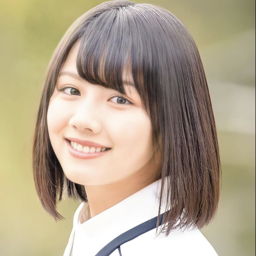
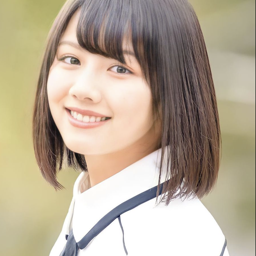
detect error file

diff --git a/main.py b/main.py
@@ -35,8 +35,11 @@ def ImgResizeSquare(i_path, o_path, target_width, target_height, amt_shift):
     files = os.listdir(i_path)
     
     for file in files:
-        img = Image.open(os.path.join(i_path, file))
-        
+        try:
+            img = Image.open(os.path.join(i_path, file))
+        except Exception as e:
+            print("cannot open " + str(file))
+
         # 最大サイズの正方形切り出し → 目的のサイズへリサイズ
         cropped_img = CropMaxSquare(img, amt_shift)
         resized_img = KeepAspectImg(cropped_img, target_width, target_height)
@@ -62,7 +65,7 @@ if __name__ == "__main__":
     RESIZE_HEIGHT_DEFAULT = 256
 
     # 正方形切り出しの位置を上げる量 負: 上へシフト, 正: 下へシフト
-    AMOUNT_SHIFT = -240
+    AMOUNT_SHIFT = -100
 
     # 入力, 出力のパス取得
     i_path, o_path = GetInputOutputPath()
